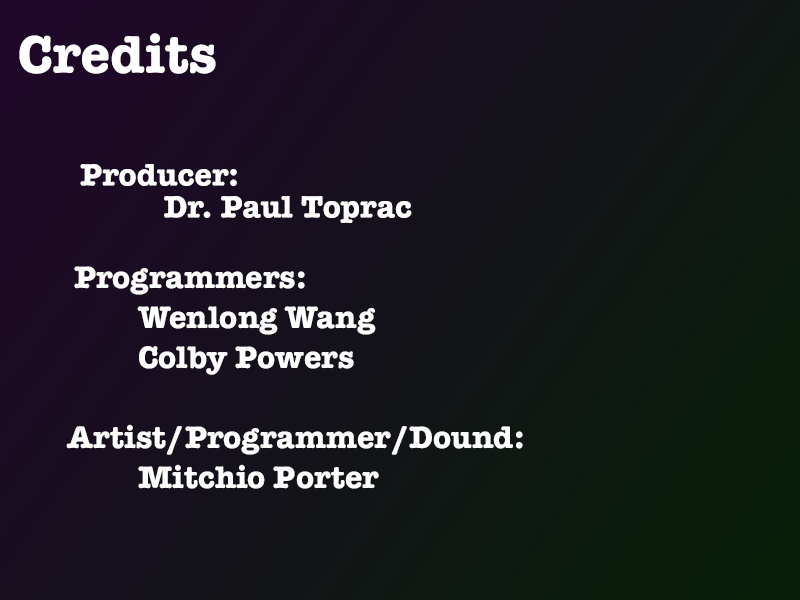
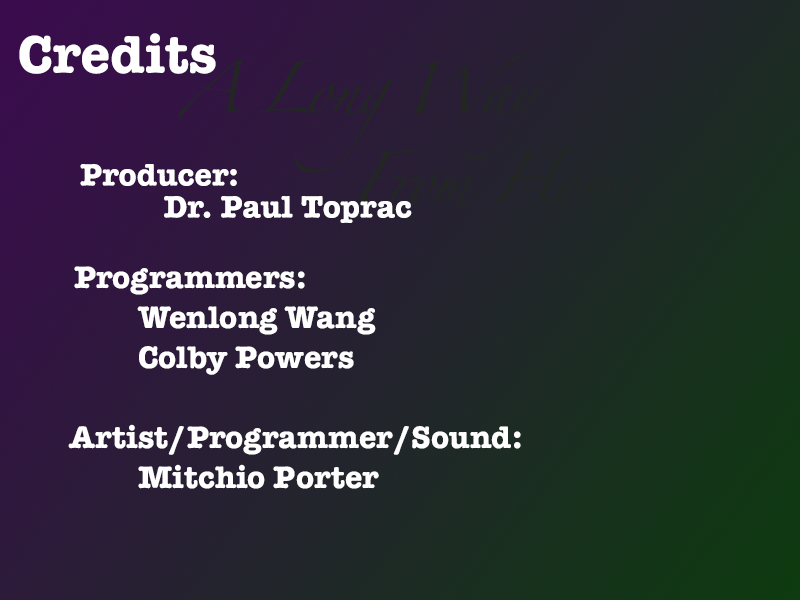
Added level 4 transition, new coin and herat asset, credits edit

diff --git a/js/enemyManager.js b/js/enemyManager.js
@@ -32,6 +32,7 @@ function hitEnemy1(enemy, bullet){
         createCoin(game,enemy.position.x,enemy.position.y);
         enemy.kill();
         enemyNum=enemyNum-1;
+        enemy.target =player1;
     }
     
     //enemy.reset(enemy.body.position.x+20,enemy.body.position.y);
@@ -47,6 +48,7 @@ function hitEnemy2(enemy, dagger){
         createCoin(game,enemy.position.x,enemy.position.y);
         enemy.kill();
         enemyNum=enemyNum-1;
+        enemy.target =player2;
     }
     //enemy.reset(enemy.body.position.x+20,enemy.body.position.y);
 }
@@ -184,6 +186,7 @@ function gemBossUpdater (){
         
         }
     
+    
 }
 
 
@@ -231,12 +234,14 @@ function fireGem (){
         //left
         if (boss.body.position.x > boss.target.body.position.x){
             gem.reset(boss.x, boss.y+55);
-            gem.rotation = game.physics.arcade.moveToXY(gem, gem.body.position.x-500, gem.body.position.y, 1000, 5000);
+            gem.rotation = game.physics.arcade.moveToXY(gem, boss.target.body.position.x, boss.target.body.position.y, 300);
+            //gem.rotation = game.physics.arcade.moveToXY(gem, gem.body.position.x-500, gem.body.position.y, 1000, 5000);
         }
         //right
         else if (boss.body.position.x < boss.target.body.position.x){
             gem.reset(boss.x, boss.y+55);
-            gem.rotation = game.physics.arcade.moveToXY(gem, gem.body.position.x+500, gem.body.position.y, 1000, 5000);
+           gem.rotation = game.physics.arcade.moveToXY(gem, boss.target.body.position.x, boss.target.body.position.y, 300);
+            // gem.rotation = game.physics.arcade.moveToXY(gem, gem.body.position.x+500, gem.body.position.y, 1000, 5000);
         }
         lastGemTime = game.time.now;
     }
@@ -318,9 +323,11 @@ function bulletHell(){
         firing = true;
         boss.lastFired = game.time.now;
         for(var i = 0; i <  game.rnd.realInRange(5, 20); i++){
-            var cannon = game.add.sprite(boss.x+110, boss.y+70, 'cannonball');
-            cannon.xSpeed = -1 * game.rnd.realInRange(-40, 300);
-            cannon.ySpeed = -1 * game.rnd.realInRange(-40, 300);
+            var cannon = game.add.sprite(boss.x+110, boss.y+68, 'cannonball');
+            
+                cannon.xSpeed = -1 * game.rnd.realInRange(-40, 300);
+                cannon.ySpeed = -1 * game.rnd.realInRange(-40, 300);
+            
             cannon.time = game.time.now;
             cannons.add(cannon);
             cannon.enableBody =true;

diff --git a/js/state3.js b/js/state3.js
@@ -8,14 +8,13 @@ hasKey = false;
 
 
 
-
 demo.state3.prototype = {
     preload: function(){
        
         assetLoader();
     },
     create: function(){
-        
+        state4 = true;
         backgroundCreate(game,'room2_1','tileset22');
         groupInitializer();
         enemiesCreate();2
@@ -28,9 +27,10 @@ demo.state3.prototype = {
         player1Create(game,150,100);
         player2Create(game,200,150);
         
-        var limit = game.rnd.integerInRange(1, 50);
+        var limit = game.rnd.integerInRange(10, 40);
+        enemyNum = limit/2;
         for(var i = 0; i < limit; i++){
-            createGhost(game.rnd.integerInRange(0,game.width),game.rnd.integerInRange(0,game.height), i);
+            createGhost(game.rnd.integerInRange(0,2000),game.rnd.integerInRange(0,2000), i);
     }       
         
         hud();
@@ -45,6 +45,16 @@ demo.state3.prototype = {
         enemyUpdate();
         trapUpdate()
         pressurePlateUpdater();
+        //Win the game
+        hintText.text = 'Enemies Remaining: ' + enemyNum;
+      
+            
         
+         if(enemyNum <= 0){
+        music.stop();
+        game.state.start('state4');
+    
+            }       
     }
+   
 };

diff --git a/js/state1.js b/js/state1.js
@@ -112,7 +112,8 @@ demo.state1.prototype = {
         //debugging stuff
         game.input.keyboard.addKey(Phaser.Keyboard.TWO).onDown.add(changeState2, null, null, 2);
         game.input.keyboard.addKey(Phaser.Keyboard.FOUR).onDown.add(changeState4, null, null, 2);
-
+        game.input.keyboard.addKey(Phaser.Keyboard.THREE).onDown.add(changeState3, null, null, 2);
+        
         hud();
         
         //Un-comment this to add a refresh button in state1
@@ -138,6 +139,13 @@ function changeState2(){
     if (state == 1||state==2){
         music.stop();
         game.state.start('state2');
+    }
+}
+function changeState3(){
+    //console.log(i);
+    if (state == 1||state==2){
+        music.stop();
+        game.state.start('state3');
     }
 }
 

diff --git a/js/playerUpdater.js b/js/playerUpdater.js
@@ -200,12 +200,12 @@ function playerUpdate(){
 //this manages the bullets
 //Bullet handler
         bullets.forEachAlive(function(bullet){
-            if (bullet.visible && bullet.inCamera){
+            if (bullet.visible && bullet.inCamera && !state4){
                 game.physics.arcade.overlap(bullet, layer, bulletKilled, null, this);
             }
         });
         daggers.forEachAlive(function(dagger){
-            if (dagger.visible && dagger.inCamera){
+            if (dagger.visible && dagger.inCamera && !state4){
                 game.physics.arcade.overlap(dagger, layer, daggerKilled, null, this);
             }
         });

diff --git a/js/state4.js b/js/state4.js
@@ -11,6 +11,7 @@ var boss;
 var firing = false;
 var healthBar;
 var cannons;
+var state4 = false;
 
 demo.state4.prototype = {
     preload: function(){
@@ -20,6 +21,7 @@ demo.state4.prototype = {
     },
     create: function(){
         //load the bg
+        
         backgroundCreate(game,'BossRoom', 'tileset1');
         //load the players
         player2Create(game,150,100);
@@ -52,9 +54,7 @@ demo.state4.prototype = {
         topTankManager();
       
      
-        //Win the game
-
-            
+        
         
         }
 };

diff --git a/js/assets.js b/js/assets.js
@@ -42,7 +42,7 @@ function assetLoader(){
         game.load.spritesheet('boulder', 'assets/boulder.png', 32, 32, 4);
         game.load.image('tinyGem', 'assets/tinygem.png');
     
-        game.load.image('heart', heartURI,48,48);
+        game.load.image('heart', 'assets/heart.png',48,48);
     
         game.load.spritesheet('start', 'assets/StartButton.png', 200, 100,3);
         game.load.spritesheet('back', 'assets/backButton.png', 200, 100,3);
